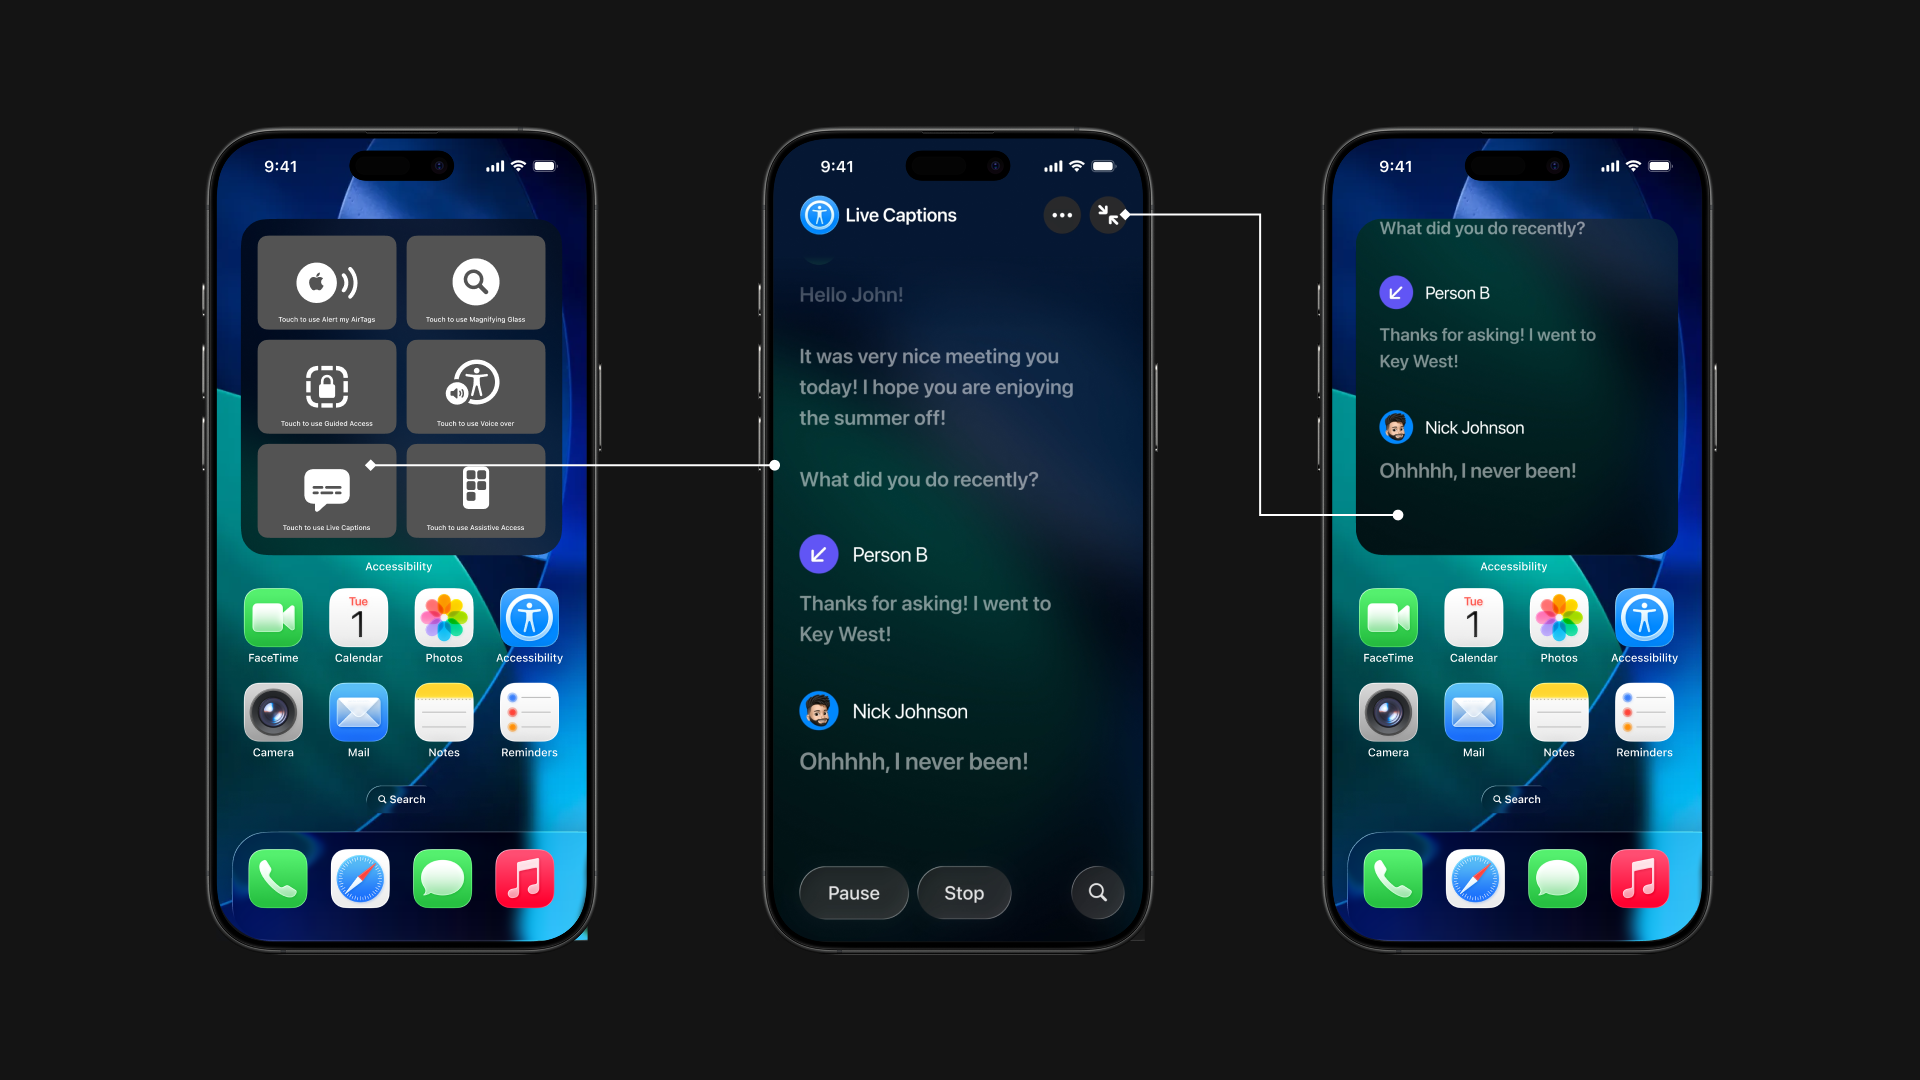
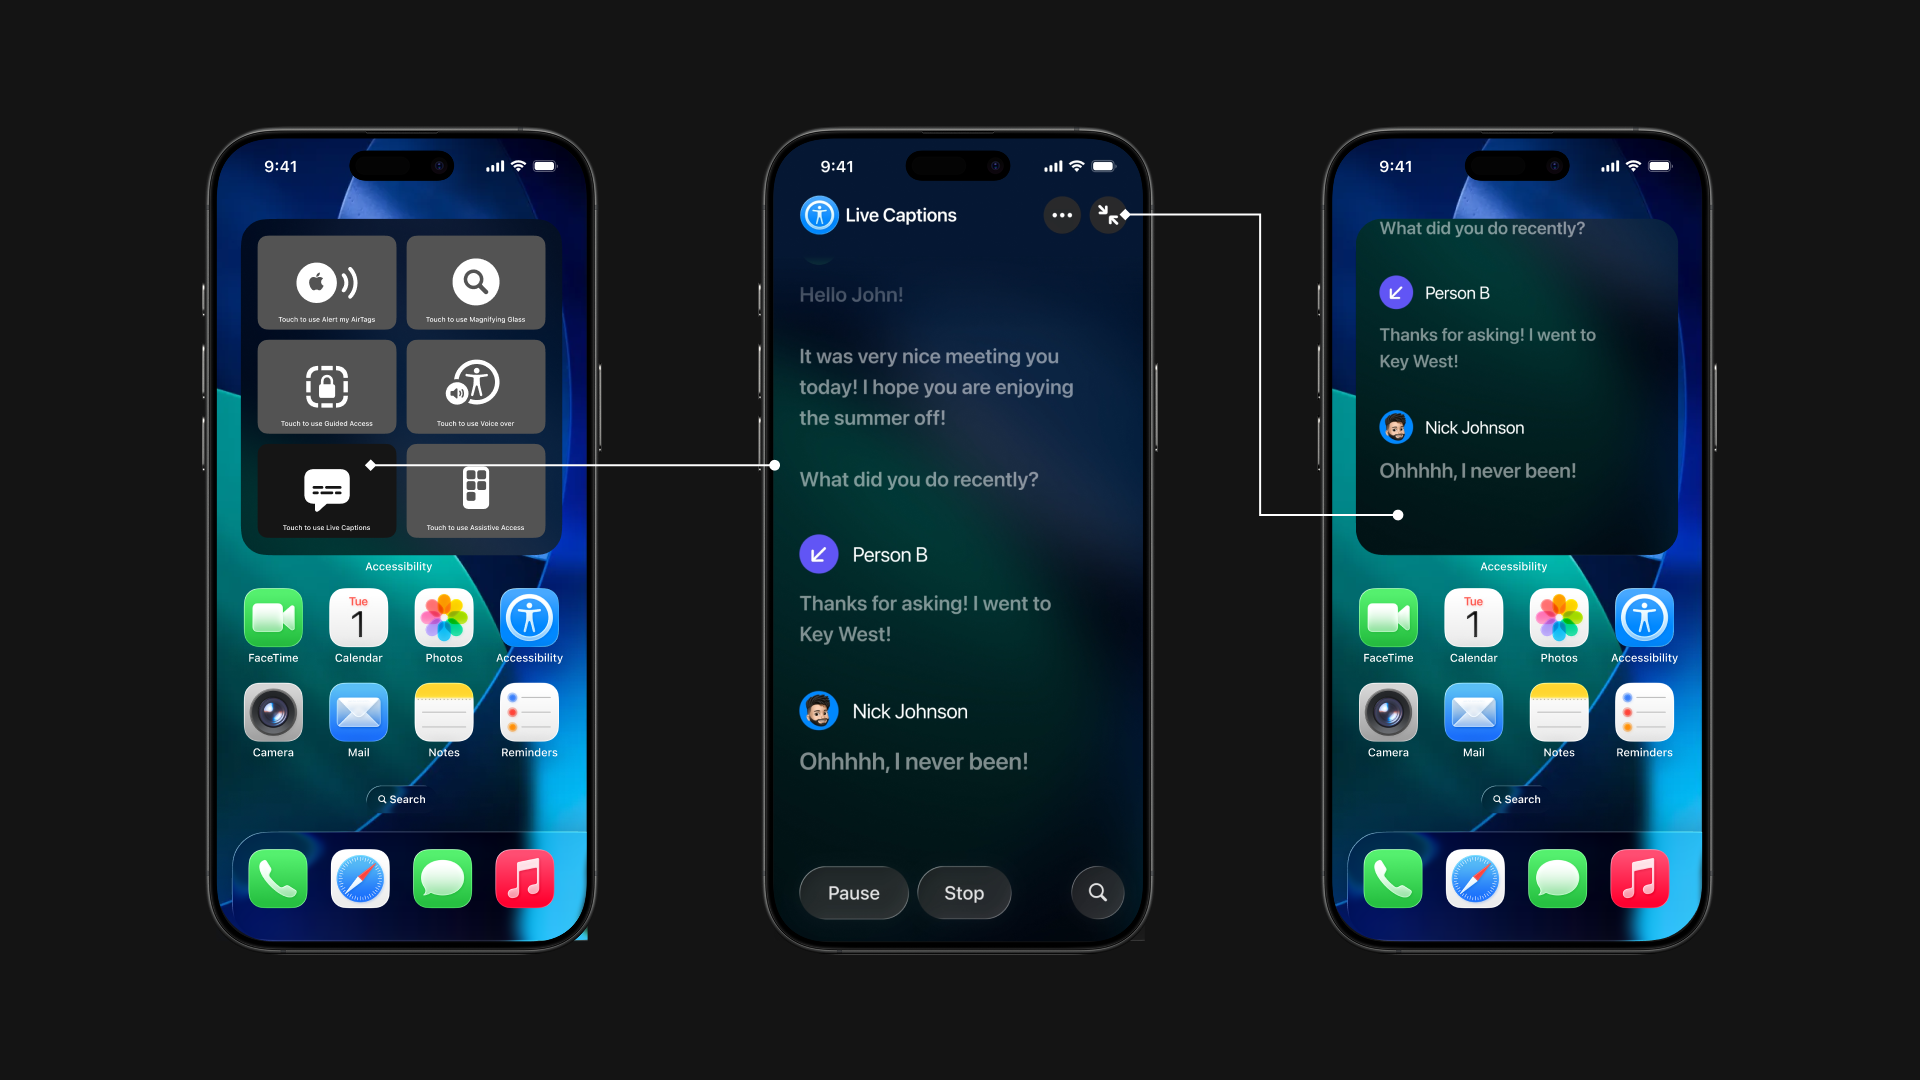
v12

Changed region(s): [[0.125, 0.3972, 0.2188, 0.5194]]

diff --git a/applelivecpations.html b/applelivecpations.html
@@ -113,7 +113,15 @@
                         respecting platform constraints.</h3>
             </div>
         </div>
+        <div class="lgMargin"></div>
+        <h1 class="lgTxt">How Can We Create a More Cohesive Apple Live Captions Experience?</h1>
         <div class="mdMargin"></div>
+        <img src="img/Apple_LiveCaptions_1.png" alt="Bento Grid showcasing Live captions in a whole new way with iPhone UI design showing text on screen.">
+        <br>
+        <br>
+        <img width="100%" src="img/Apple_Live_Captions_Watch.png" alt="Apple watch on user wrist showcasing Apple Live Captions">
+        <br>
+        <br>
         <img src="img/Apple_LIve_Captions_UI.png" width="100%"
             alt="Apple Live Captions interface design on iPhone and Watch" loading="lazy">
         <br>
@@ -126,7 +134,7 @@
             alt="Apple Live Captions user needs mapping diagram" loading="lazy">
         <div class="lgMargin"></div>
         <h1 class="lgTxt">How can we bring Apple Intelligence into the existing products?</h1>
-         <div class="lgMargin"></div>
+        <div class="lgMargin"></div>
         <div class="breif">
             <div class="flexBox" style="gap: 32px; align-items: start;">
                 <div class="w-50">

diff --git a/css/style.css b/css/style.css
@@ -206,7 +206,7 @@ a {
    Text size utilities
    ------------------------------------------------- */
 .lgTxt {
-    font-size: 96px;
+    font-size: 56px;
     text-wrap: balance;
     line-height: 1.1;
 }
